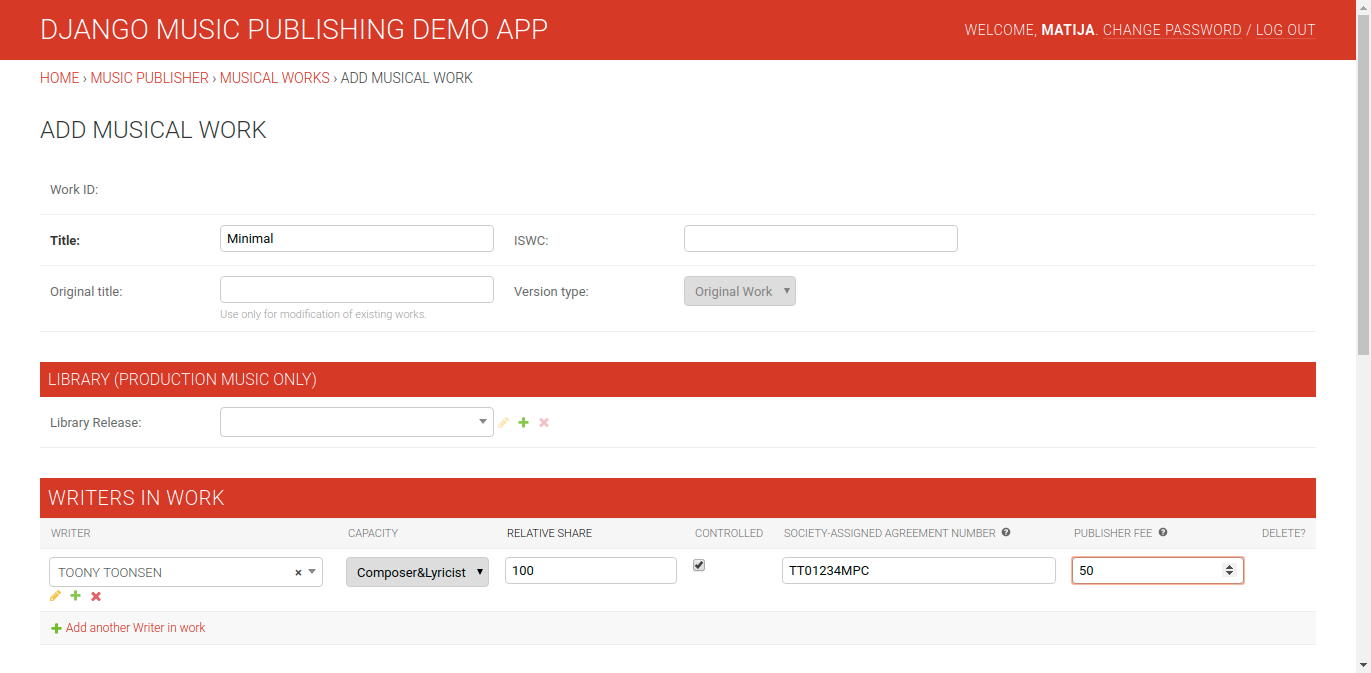
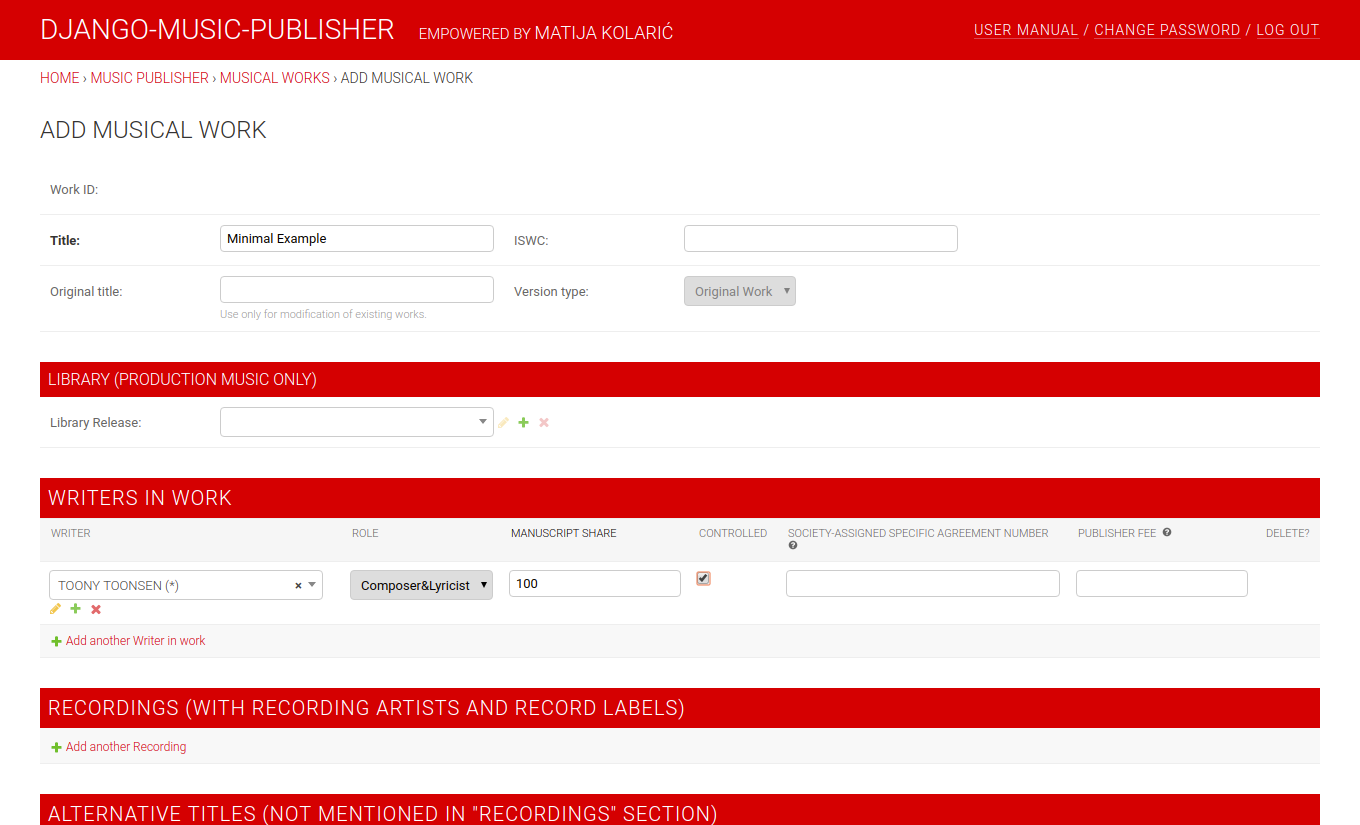
new images for user manual

diff --git a/docs/manual_home.rst b/docs/manual_home.rst
@@ -15,6 +15,7 @@ The first screen that appears is the log-in screen. Please log in with the crede
 
 The ``home view`` will show up after a successfully login, in this example, it is the view superusers see. Depending on permissions, users will see only a subset of the options present here.
 
-In the header, the left part shows the name of the (main) publisher, and the right has the name of the current user as well as links for changing the password and logging out. This header is present in all views.
+In the header, the left part shows the name of the (main) publisher and the link to the maintainer's website.
+The right shows links to this user manual, for changing the password and logging out. This header is present in all views.
 
 We have two columns, the left one shows the list of modules, with links to change and add views. The right one shows the last 10 actions of the current user. It is empty, as we have not done anything yet.

diff --git a/docs/manual_works.rst b/docs/manual_works.rst
@@ -43,7 +43,7 @@ There is another way to add writers, which will be covered in the :doc:`writers 
 If left empty, it means that the writer is unknown. This is often used with modifications of traditional musical works.
 
 
-.. figure:: /images/popup_add_writer.png
+.. figure:: /images/add_writer.png
    :width: 100%
 
    Add writer pop-up view
